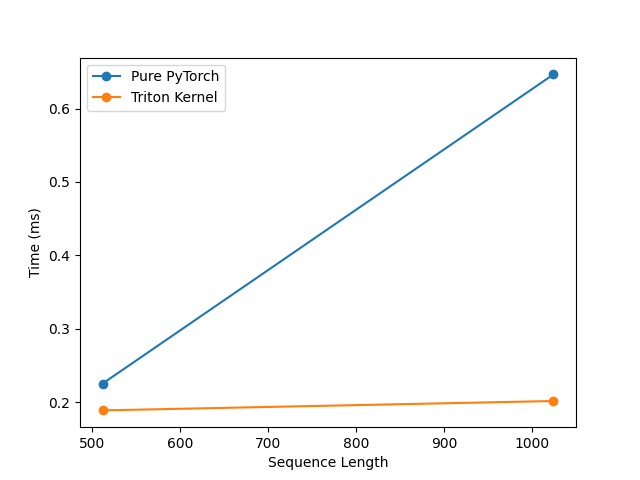
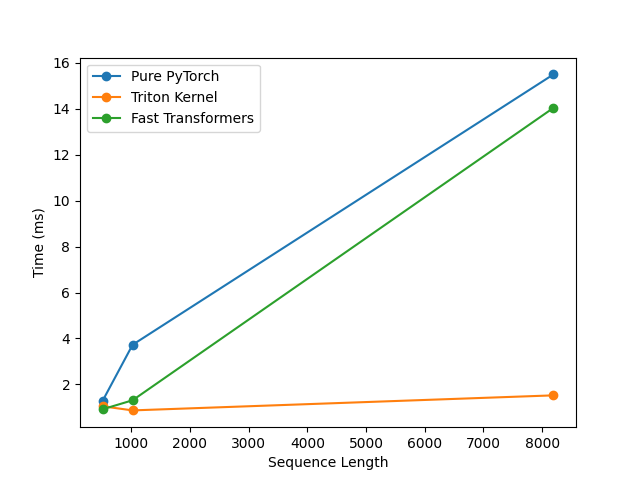
update to include fast transformers baseline

diff --git a/examples/hedgehog/hedgehog_parallel/benchmark.py b/examples/hedgehog/hedgehog_parallel/benchmark.py
@@ -11,7 +11,7 @@ def parallel_benchmark(dt=torch.bfloat16, device='cuda'):
     
     method2timing = defaultdict(dict)
     method2mem = defaultdict(dict)
-    for i, seq_len in enumerate([256, 512, 1024]):
+    for i, seq_len in enumerate([256, 512, 1024, 8192]):
         batch_size = 1
         n_heads = 1
         
@@ -31,12 +31,20 @@ def parallel_benchmark(dt=torch.bfloat16, device='cuda'):
         # initialize model
         scaling, norm = False, False
         
+        # manual model
         torch.manual_seed(1)
         model_ref = HedgehogBased(num_heads=n_heads, head_dim=d, feature_dim=dv, input_dim=d, dtype=torch.bfloat16, zero_init=False, use_triton=False)
         ref = model_ref(q, k, v, scaling, norm)
+
+        # triton model
         torch.manual_seed(1)
         model_tri = HedgehogBased(num_heads=n_heads, head_dim=d, feature_dim=dv, input_dim=d, dtype=torch.bfloat16, zero_init=False, use_triton=True)
         tri = model_tri(q, k, v, scaling, norm)
+
+        # fast transformers model
+        torch.manual_seed(1)
+        model_ft = HedgehogBased(num_heads=n_heads, head_dim=d, feature_dim=dv, input_dim=d, dtype=torch.bfloat16, zero_init=False, use_triton=False, use_fast_transformers=True)
+        ft = model_ft(q, k, v, scaling, norm)
 
         # ref model ---
         torch.cuda.synchronize()
@@ -69,6 +77,23 @@ def parallel_benchmark(dt=torch.bfloat16, device='cuda'):
 
         if i != 0: # triton is slow on the first call
             method2timing['Triton Kernel'][seq_len] = _time * 1000
+
+        # fast transformers model ---
+        torch.cuda.synchronize()
+        t0 = time.time()
+
+        outs = [
+            model_ft(q, k, v, scaling, norm)
+            for _ in range(num_iters)
+        ]
+
+        torch.cuda.synchronize()
+        t1 = time.time()
+        _time = (t1 - t0) / num_iters
+
+        if i != 0: # triton is slow on the first call
+            method2timing['Fast Transformers'][seq_len] = _time * 1000
+
 
     # plot: time vs. sequence length
     fig, ax = plt.subplots()

diff --git a/examples/hedgehog/hedgehog_parallel/hedgehog.py b/examples/hedgehog/hedgehog_parallel/hedgehog.py
@@ -11,7 +11,18 @@ import sys
 import os
 sys.path.append(os.path.abspath(os.path.join(os.path.dirname(__file__), '..', '..')))
 
+# import triton kernel
 from fwd_tri import parallel_based_fwd_kernel_hedgehog
+
+# import fast transformers kernel
+try:
+    sys.path.append("/var/cr05_data/sim_data/code/release/based/train/")
+    from csrc.causal_dot_prod import causal_dot_product
+    print(f"Successfully imported the causal dot product kernel! ")
+except:
+    print(f"Could not import the causal dot product kernel... ")
+    causal_dot_product = None
+
 
 class TiedHeadMLP(nn.Module):
     """
@@ -194,6 +205,7 @@ class SoftmaxDim(ExpDim):
             torch.softmax(-x, dim=self.head_dim_idx)
         ], dim=self.head_dim_idx).clamp(min=self.eps)
 
+
 class HedgehogBased(nn.Module):
     def __init__(self, 
                  num_heads: int, 
@@ -204,6 +216,7 @@ class HedgehogBased(nn.Module):
                  zero_init: bool = False, 
                  bias: bool = False, 
                  use_triton: bool = False,
+                 use_fast_transformers: bool = False,
                  dtype: torch.dtype = torch.float32):
         super().__init__()
         
@@ -220,6 +233,9 @@ class HedgehogBased(nn.Module):
         self.eps = torch.tensor(1e-12, dtype=self.dtype, device='cuda')
         
         self.use_triton = use_triton
+        self.use_fast_transformers = use_fast_transformers
+        assert not (self.use_fast_transformers and self.use_triton), "Cannot use both triton and fast transformers"
+        if self.use_fast_transformers: assert causal_dot_product is not None, "Fast transformers kernel not imported"
 
         layer_kwargs = {
             'num_heads': self.num_heads,
